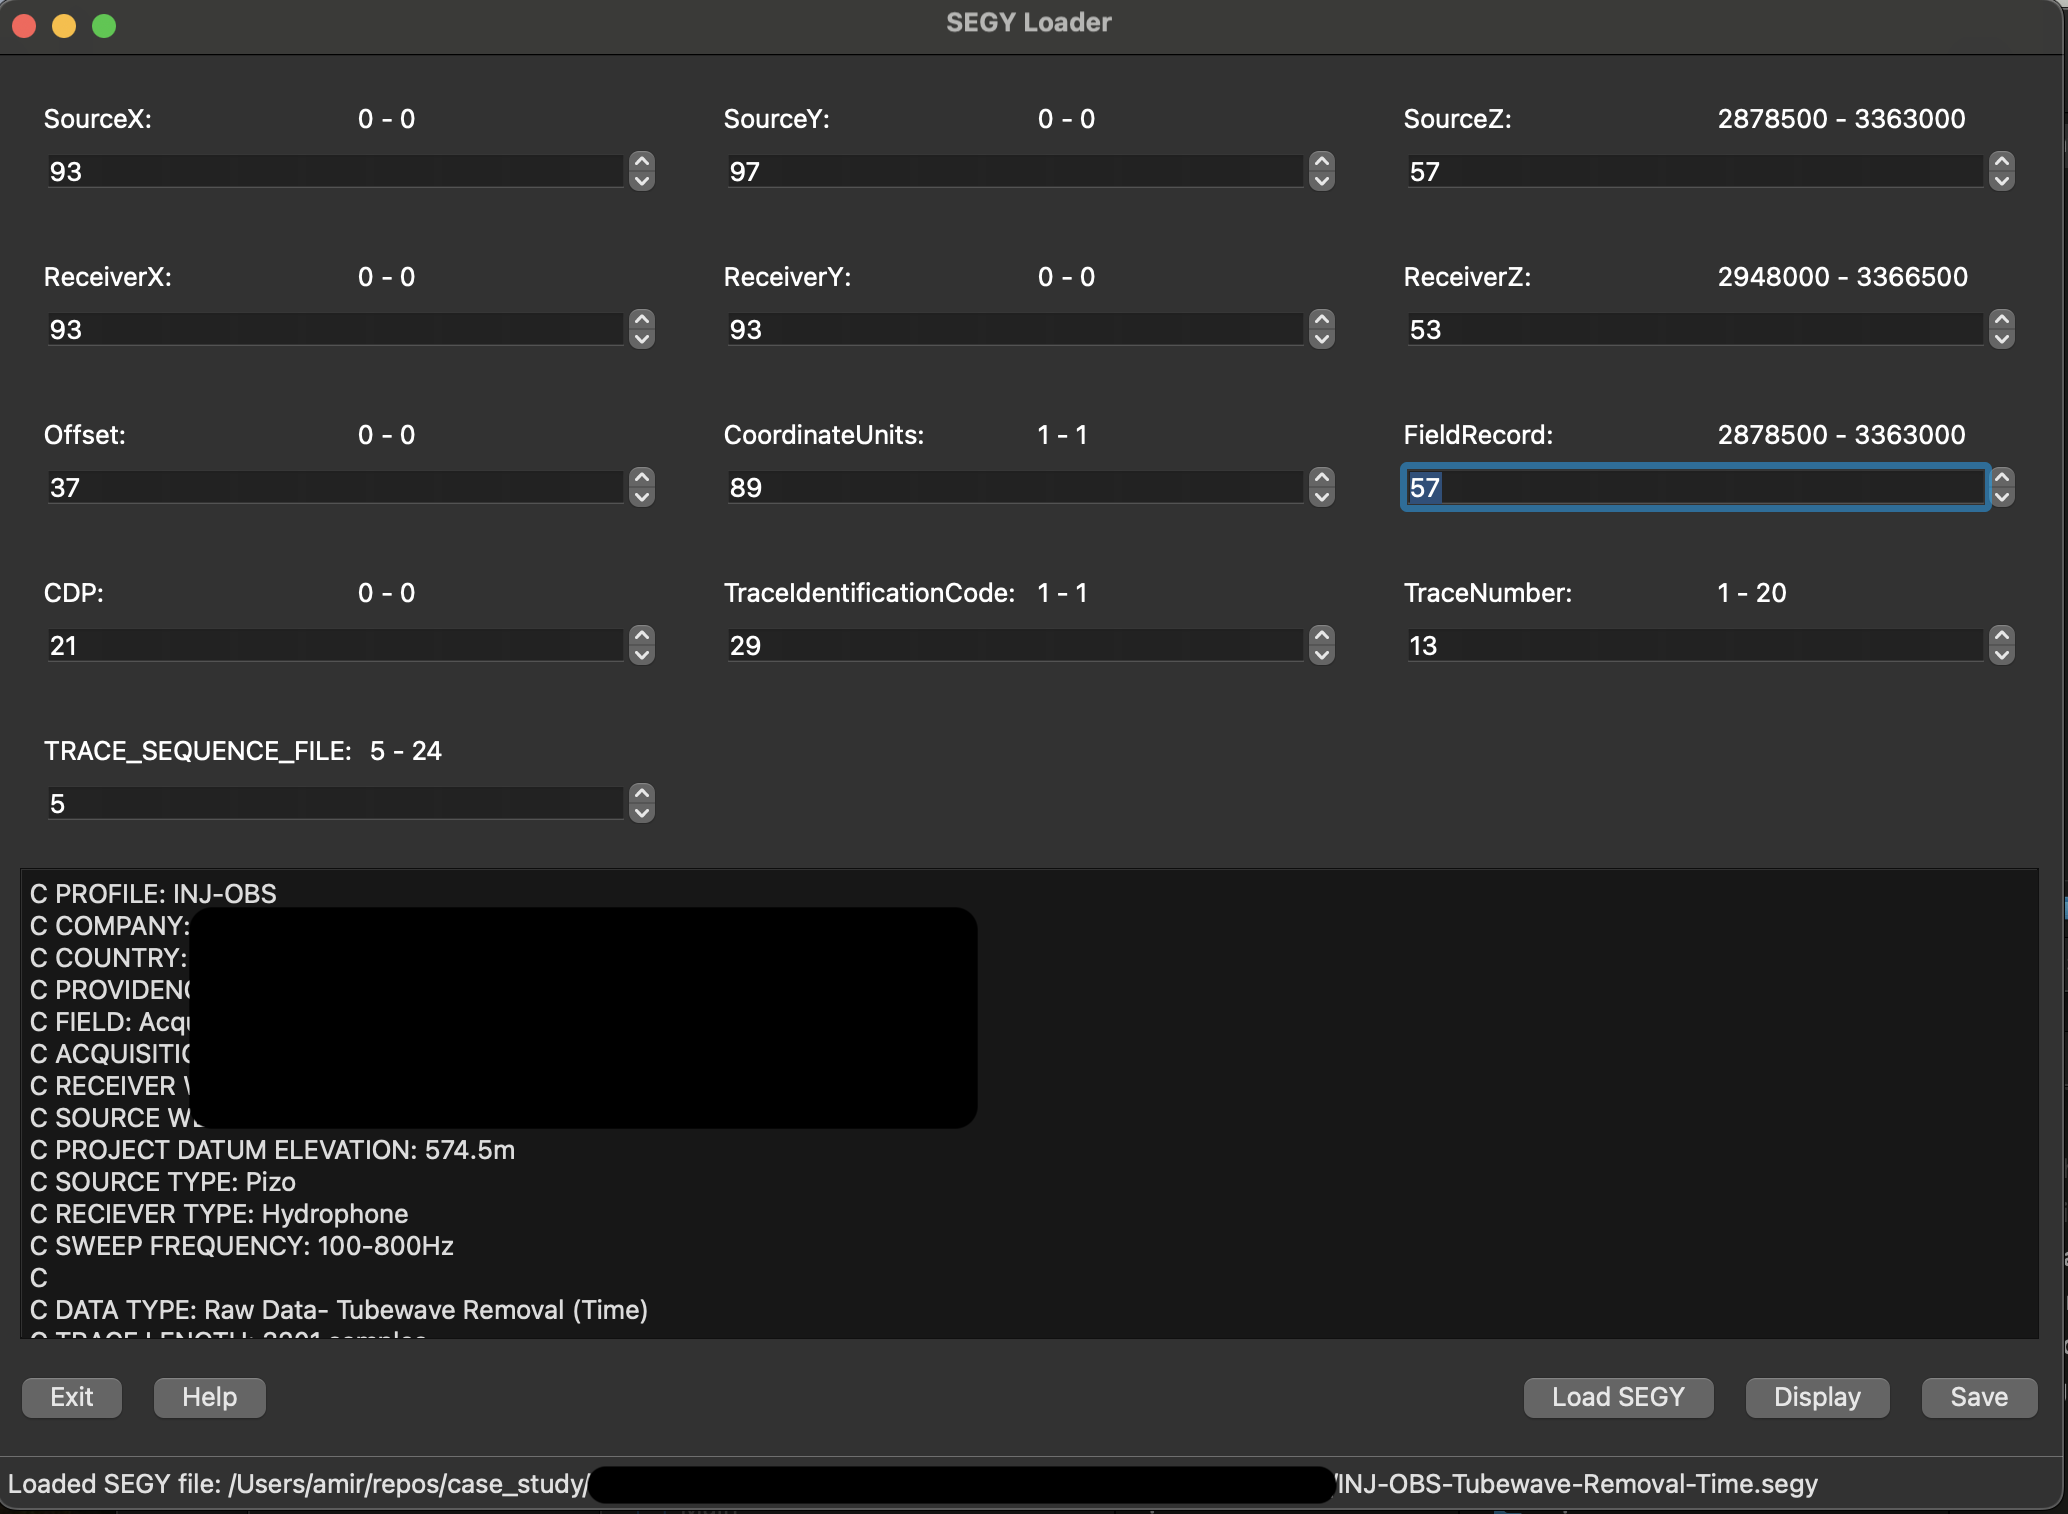
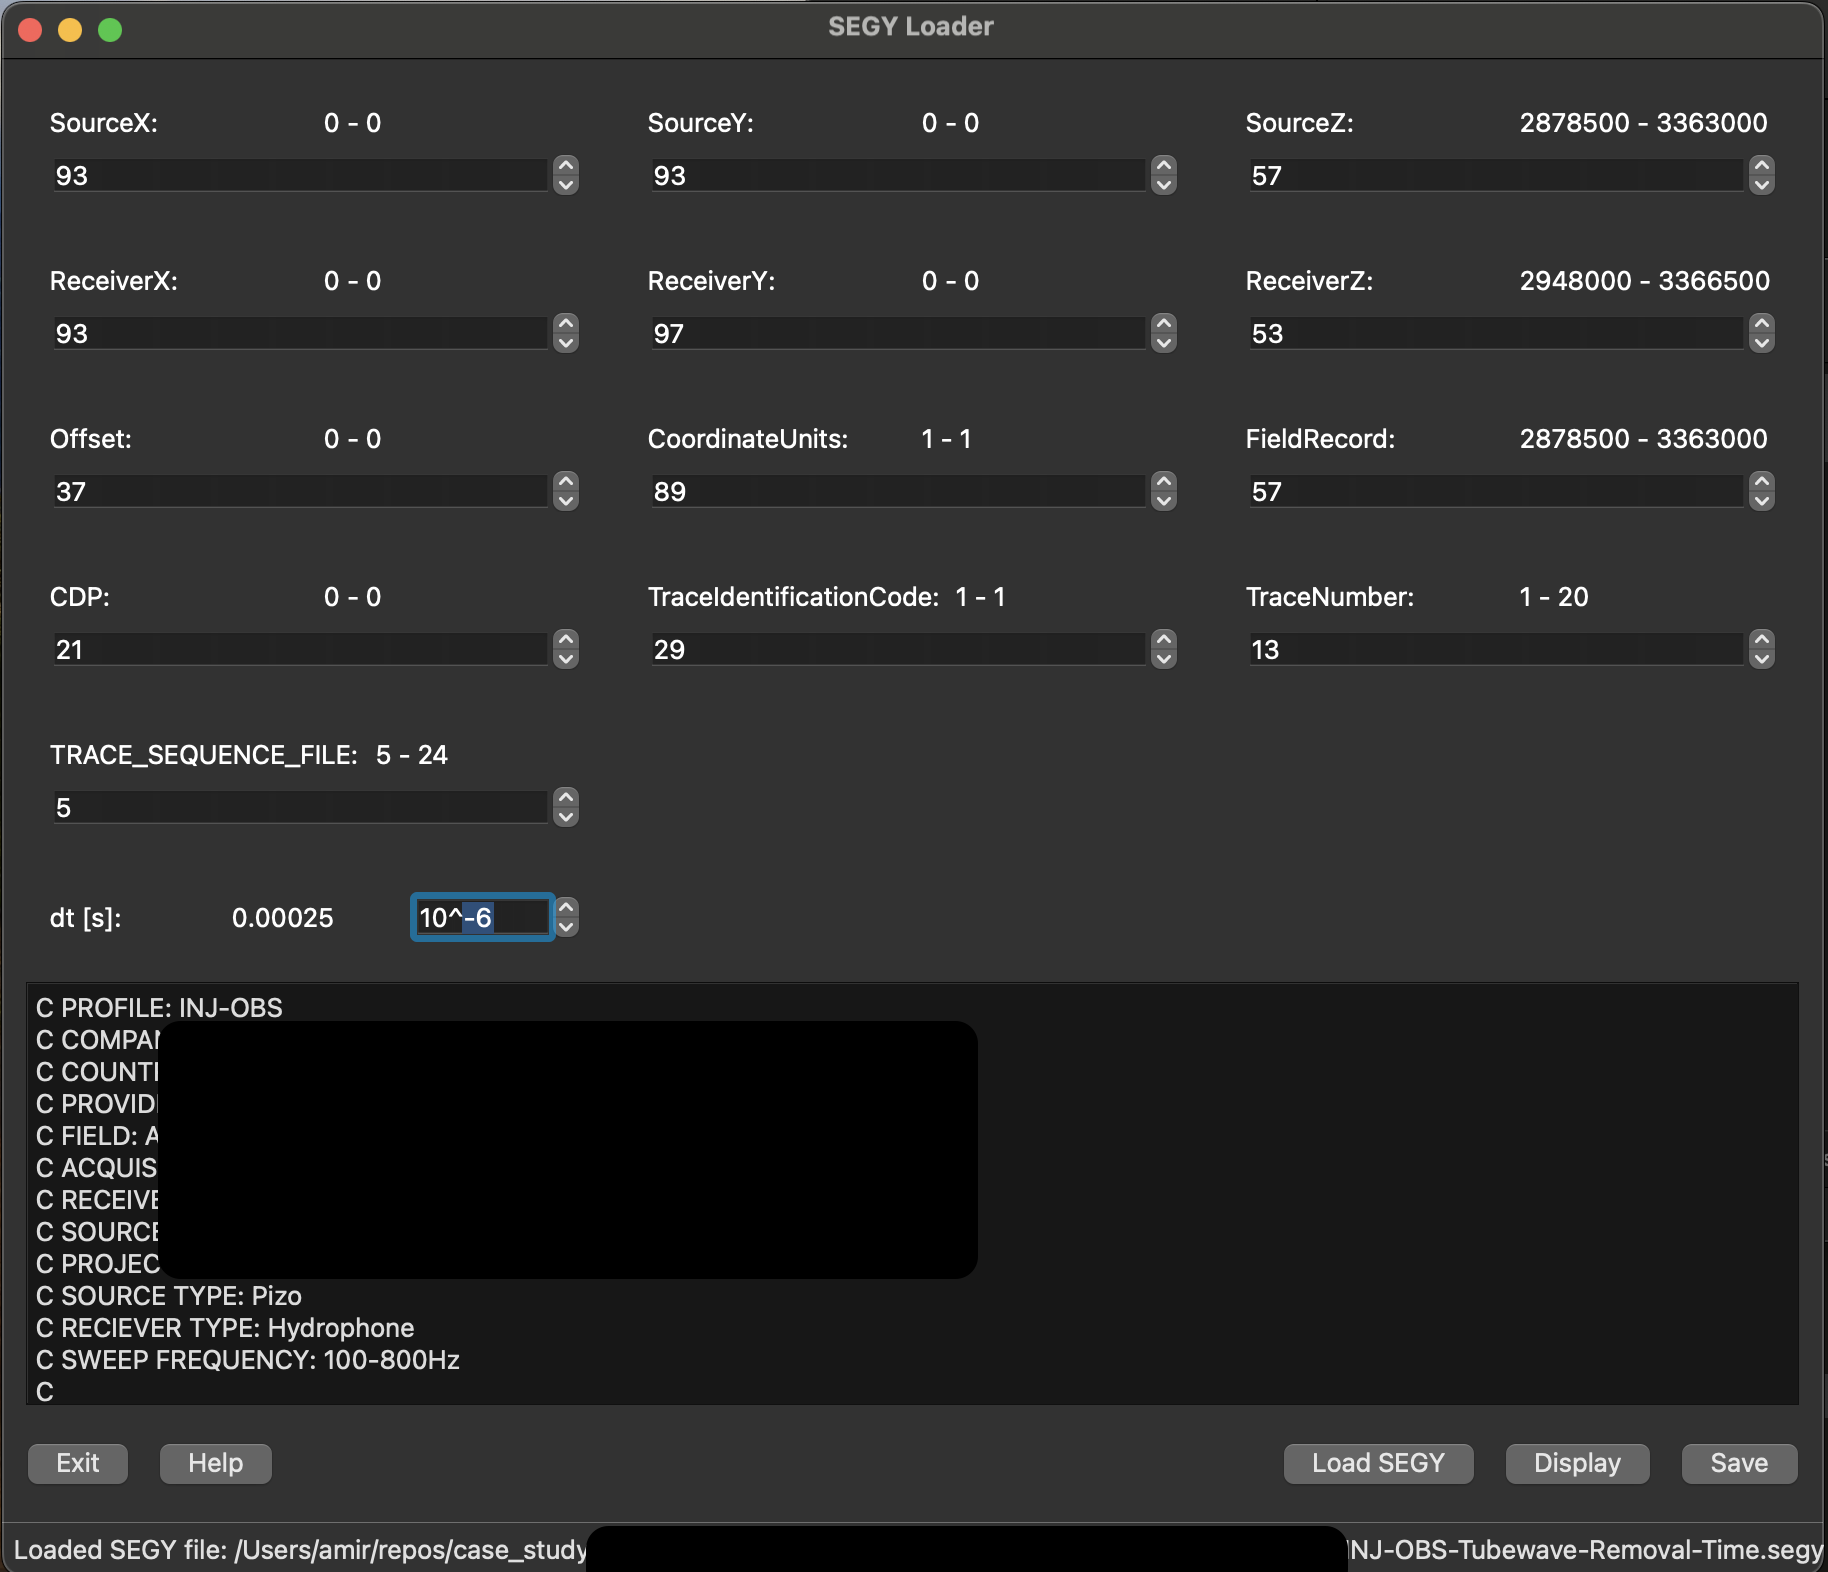
add dt unit convertor

diff --git a/segy_loader/windows/segy_parser.py b/segy_loader/windows/segy_parser.py
@@ -22,9 +22,9 @@ from segy_loader.io.segy import (
     get_segy_byte_example,
     get_segy_byte_value
 )
-from segy_loader.widgets import SegyByte
+from segy_loader.widgets import SegyByte, UnitConvertor
 from segy_loader.visualization.visualziation import imshow
-from segy_loader import Seis
+from segy_loader import Seis, float32
 
 class SegyLoader(QMainWindow):
     def __init__(self):
@@ -84,7 +84,13 @@ class SegyLoader(QMainWindow):
             self.__dict__[byte_name] = SegyByte(name=byte_name,
                                                 default_text=byte_key,
                                                 segy_path=self.selected_file)
-            
+        
+        self.dt_unit = UnitConvertor("dt [s]:")
+        self.dt_unit.unit.valueChanged.connect(self.update_dt)
+        
+        # self.dh_unit = UnitConvertor("dh [m]:")
+        # self.dh_unit.unit.valueChanged.connect(self.update_dh)
+        
         # self.time_unit
         byte_layout = QGridLayout()
         # first row
@@ -121,15 +127,47 @@ class SegyLoader(QMainWindow):
         byte_layout.addWidget(self.TRACE_SEQUENCE_FILE,
                               4, 0)
         
+        # sixth row
+        byte_layout.addWidget(self.dt_unit,
+                              5, 0)
+        # byte_layout.addWidget(self.dh_unit,
+        #                       5, 1)
         
         self.main_layout.addLayout(byte_layout)
     
+    def update_dt(self):
+        self.dt_unit.setExample(str(self.dt))
+        
+    # def update_dh(self):
+    #     # self.set_dh_example()
+    #     self.dh_unit.setExample(str(self.dh))
+
+    #     update_spatial_SegyByte_example(self.SourceX, dh=self.dh)
+    #     update_spatial_SegyByte_example(self.SourceY, dh=self.dh)
+    #     update_spatial_SegyByte_example(self.SourceZ, dh=self.dh)
+        
+    #     update_spatial_SegyByte_example(self.ReceiverX, dh=self.dh)
+    #     update_spatial_SegyByte_example(self.ReceiverY, dh=self.dh)
+    #     update_spatial_SegyByte_example(self.ReceiverZ, dh=self.dh)
+        
     def update_byte_examples(self):
         for byte_name, byte_key in self.bytes_map.items():
             self.__dict__[byte_name].example_value_label.setText(str(
                 get_segy_byte_example(self._selected_file,
                                       key=int(byte_key))))
-            
+        self.dt_unit.setExample(f"{self.dt}")
+
+        # self.dh_unit.setExample(f"{self.dh}")
+        
+    #     self.set_dh_example()
+        
+    # def set_dh_example(self):
+    #     x = abs(float32(self.SourceX.example_value_label.text().split("-")[1])) # "min - max"
+    #     z = abs(float32(self.SourceZ.example_value_label.text().split("-")[1]))
+    #     d = max(x, z) # if max(x, z) > 0 else 1
+        
+    #     self.dh_unit.setExample(f"{d / self.dh}")
+        
     def setup_load_help_buttons(self):
         """
         Buttons to load and help the user load the SEGY file.
@@ -183,11 +221,20 @@ class SegyLoader(QMainWindow):
         """
         self.text_edit.setPlainText(help_text)
         
-    def display_data(self):
-        imshow(self.data, self.dt)
+    def display_data(self) -> None:
+        data = self.create_seis()
+        d = data.get_gather(key="ffid", 
+                            value=[data.uffid[0]])
+        imshow(d, ffid=data.uffid[0])
     
-    def save_seis(self):
-            
+    def create_seis(self) -> Seis:
+        """Create a seis object
+
+        Returns
+        -------
+        Seis
+            Seis
+        """
         data = self.data
         header = {
             "dt": self.dt,
@@ -202,9 +249,13 @@ class SegyLoader(QMainWindow):
             "ry": self.get_segy_value(self.ReceiverY.byte_spinbox.value()),
             "rz": self.get_segy_value(self.ReceiverZ.byte_spinbox.value()),
             "offset": self.get_segy_value(self.Offset.byte_spinbox.value()),
-        }
-        seis_data = Seis(data, header)
-        
+        }        
+        return Seis(data, header)
+    
+    def save_seis(self):
+        """
+        Save seis data
+        """
         options = QFileDialog.Options()
         options |= QFileDialog.DontUseNativeDialog
         file_name, _ = QFileDialog.getSaveFileName(self,
@@ -213,6 +264,8 @@ class SegyLoader(QMainWindow):
                                                    "Seis Files (*.seis)",
                                                    options=options)
         if file_name:
+            seis_data = self.create_seis()
+            
             extension = ".seis"
             if not file_name.endswith(extension):
                 file_name += extension
@@ -250,10 +303,23 @@ class SegyLoader(QMainWindow):
             self.status_bar.showMessage(f"Loaded SEGY file: {file_path}")
             self.save_button.setEnabled(True)
             self.display_button.setEnabled(True)
-            
+    
+    @property
+    def dt(self):
+        unit = self.dt_unit.value()
+        return float32(self.dt_original * 10**unit)
+    
+    # @property
+    # def dh(self):
+    #     unit = self.dh_unit.value()
+    #     return float32(self.dh_original *10 ** unit)
+    
     def show_file_info(self):
         header_text, data_info, self.data = get_segy_header_text(self._selected_file)
-        self.dt = data_info["dt"]
+        self._dt = data_info["dt"]
+        self.dt_original = data_info["dt"]
+        # self.dh_original = 1
+        
         self.samples = data_info["samples"]
         
         self.text_edit.setPlainText(header_text)
@@ -274,6 +340,17 @@ class SegyLoader(QMainWindow):
             Trace length: {data_info['length']}
         """)
         self.text_edit.appendPlainText(text_to_append)
+
+
+# def parse_example_from_SegyByte(byte_name):
+#     ex = byte_name.example_value_label.text().split("-")
+#     return float32([ex[0], ex[1]])
+
+
+# def update_spatial_SegyByte_example(byte_name, dh):
+#     d = parse_example_from_SegyByte(byte_name)
+#     byte_name.example_value_label.setText("{} - {}".format(d[0] / dh, d[1] / dh))
+        
         
 if __name__ == "__main__":
     import sys

diff --git a/segy_loader/widgets/unit_convertor.py b/segy_loader/widgets/unit_convertor.py
@@ -1,0 +1,73 @@
+from PySide6.QtWidgets import (
+    QWidget,
+    QSpinBox,
+    QLabel,
+    QHBoxLayout
+)
+
+class UnitConvertor(QWidget):
+    
+    def __init__(self, label: str,
+                 parent=None):
+        super(UnitConvertor, self).__init__(parent)
+        
+        self.init_ui(label)
+        
+    def init_ui(self, label: str):
+        dt_label = QLabel(label)
+        self.ex_label = QLabel("")
+        self.unit = QSpinBox()
+        self.unit.setRange(-10, 10)
+        self.unit.setPrefix("10^")
+        self.unit.setValue(0)        
+        
+        self.layout = QHBoxLayout()
+        
+        self.layout.addWidget(dt_label)
+        self.layout.addWidget(self.ex_label)
+        self.layout.addWidget(self.unit)
+        
+        self.setLayout(self.layout)
+    
+    def setExample(self, example: str):
+        self.ex_label.setText(example)
+        
+    def setRange(self, min_val: int, max_val: int):
+        self.unit.setRange(min_val, max_val)
+        
+    def setPrefix(self, prefix: str):
+        self.unit.setPrefix(prefix)
+        
+    def setValue(self, value: int):
+        self.unit.setValue(value)
+        
+    def setLabel(self, label: str):
+        self.ex_label.setText(label)
+        
+    def setEnabled(self, enabled: bool):
+        self.unit.setEnabled(enabled)
+        
+    def setReadOnly(self, read_only: bool):
+        self.unit.setReadOnly(read_only)
+        
+    def setToolTip(self, tooltip: str):
+        self.unit.setToolTip(tooltip)
+        
+    def setObjectName(self, name: str):
+        self.unit.setObjectName(name)
+        
+    def setSingleStep(self, step: int):
+        self.unit.setSingleStep(step)
+        
+    def setFocus(self):
+        self.unit.setFocus()
+    
+    def setMinimum(self, min_val: int):
+        self.unit.setMinimum(min_val)
+        
+    def setMaximum(self, max_val: int):
+        self.unit.setMaximum(max_val)
+    
+    def value(self) -> int:
+        return self.unit.value()
+    

diff --git a/segy_loader/visualization/visualziation.py b/segy_loader/visualization/visualziation.py
@@ -4,24 +4,25 @@ import numpy as np
 import segy_loader as sl
 from segy_loader.preprocessing import scale
 
-def imshow(data: np.ndarray,
-           dt: float,):
+def imshow(data: sl.Seis,
+           ffid) -> None:
     fig, ax = plt.subplots(1, 1,
-                        figsize=(10, 6))
+                           figsize=(10, 6))
 
-    ax.imshow(scale(data,
-                    method="trace"), 
-            cmap="seismic", 
-            aspect="auto",
-            extent=[0, data.shape[1], 
-                    data.shape[0]*dt, 0])
+    ax.imshow(scale(data.data,
+                method="trace"), 
+          cmap="seismic", 
+          aspect="auto",
+          extent=[0, data.data.shape[1], 
+                  data.n_samples*data.dt, 0])
     ax.set_title("All shots")
-    ax.set_ylabel("Time ")
+    ax.set_ylabel("Time [s]")
+    
+    ax.set_xticklabels(data.recs.index[sl.int32(ax.get_xticks())[:-1]])
     ax.set_xlabel("Trace number")
+    ax.set_title(f"Shot {ffid}")
+    ax1 = ax.twiny()
+    ax1.set_xticks(np.linspace(0, data.data.shape[1]-1, 8))
+    ax1.set_xticklabels(data.offset[sl.int32(ax1.get_xticks())])
+    ax1.set_xlabel("Offset (m)")
     plt.show()
-    # ax.set_xticklabels(data.recs.index[sl.int32(ax.get_xticks())[:-1]])
-
-    # ax1 = ax.twiny()
-    # ax1.set_xticks(np.linspace(0, data.data.shape[1]-1, 8))
-    # ax1.set_xticklabels(data.offset[sl.int32(ax1.get_xticks())])
-    # ax1.set_xlabel("Offset (m)")

diff --git a/segy_loader/io/segy.py b/segy_loader/io/segy.py
@@ -90,7 +90,7 @@ def get_segy_header_text(file: str):
                     'data_shape': f.trace.raw[:].T.shape,
                     'format': f.format,
                     'sorting': f.sorting,
-                    'dt': (f.samples[1] - f.samples[0]) / 1e3,
+                    'dt': segyio.tools.dt(f),
                     'samples': f.samples,
                     'n_traces': f.tracecount,
                     'length': f.samples[-1]

diff --git a/segy_loader/widgets/__init__.py b/segy_loader/widgets/__init__.py
@@ -1,5 +1,7 @@
 from .segy_byte import SegyByte
+from .unit_convertor import UnitConvertor
 
 __all__ = [
-    'SegyByte'
+    'SegyByte',
+    'UnitConvertor'
     ]
